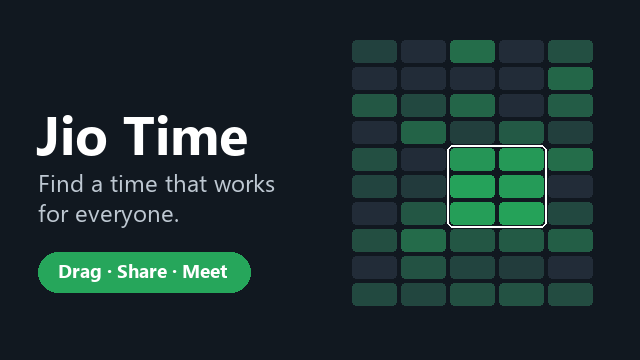
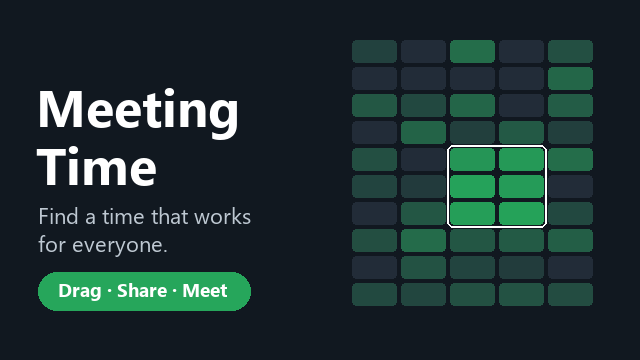
Rename Jio Time to Meeting Time (@MeetingTimingBot)

Changed region(s): [[0.0625, 0.2444, 0.4375, 0.8861]]

diff --git a/docs/index.html b/docs/index.html
@@ -3,7 +3,7 @@
 <head>
 <meta charset="utf-8">
 <meta name="viewport" content="width=device-width, initial-scale=1, maximum-scale=1, viewport-fit=cover">
-<title>Jio Time</title>
+<title>Meeting Time</title>
 <script src="https://telegram.org/js/telegram-web-app.js"></script>
 <style>
   :root {
@@ -224,7 +224,7 @@
 
 <script>
 "use strict";
-const PAGE_VERSION = "4";
+const PAGE_VERSION = "5";
 const API_URL = "https://lldebkoxvxagdkunpqnx.supabase.co/functions/v1/sched-api";
 
 const tg = window.Telegram?.WebApp;

diff --git a/supabase/functions/sched-bot/index.ts b/supabase/functions/sched-bot/index.ts
@@ -10,7 +10,7 @@ const WEBHOOK_SECRET = Deno.env.get("TELEGRAM_WEBHOOK_SECRET") ?? "";
 const EVENT_ID = /^[A-Za-z0-9]{10}$/;
 
 // Bump when docs/index.html changes so Telegram's webview doesn't serve a stale cached page.
-const PAGE_VERSION = "4";
+const PAGE_VERSION = "5";
 const pageUrl = MINI_APP_URL ? `${MINI_APP_URL}${MINI_APP_URL.includes("?") ? "&" : "?"}v=${PAGE_VERSION}` : "";
 const createButton = { text: "➕ Create a new event", web_app: { url: pageUrl } };
 

diff --git a/README.md b/README.md
@@ -1,4 +1,4 @@
-# Jio Time
+# Meeting Time (@MeetingTimingBot)
 
 A when2meet-style availability scheduler that runs as a Telegram Mini App.
 
